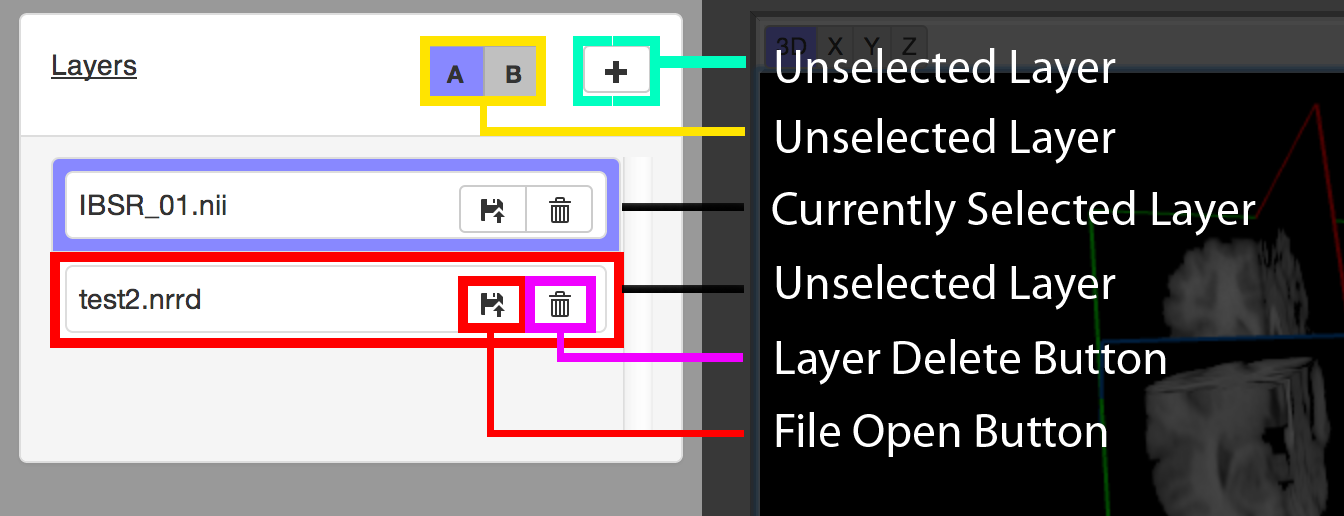
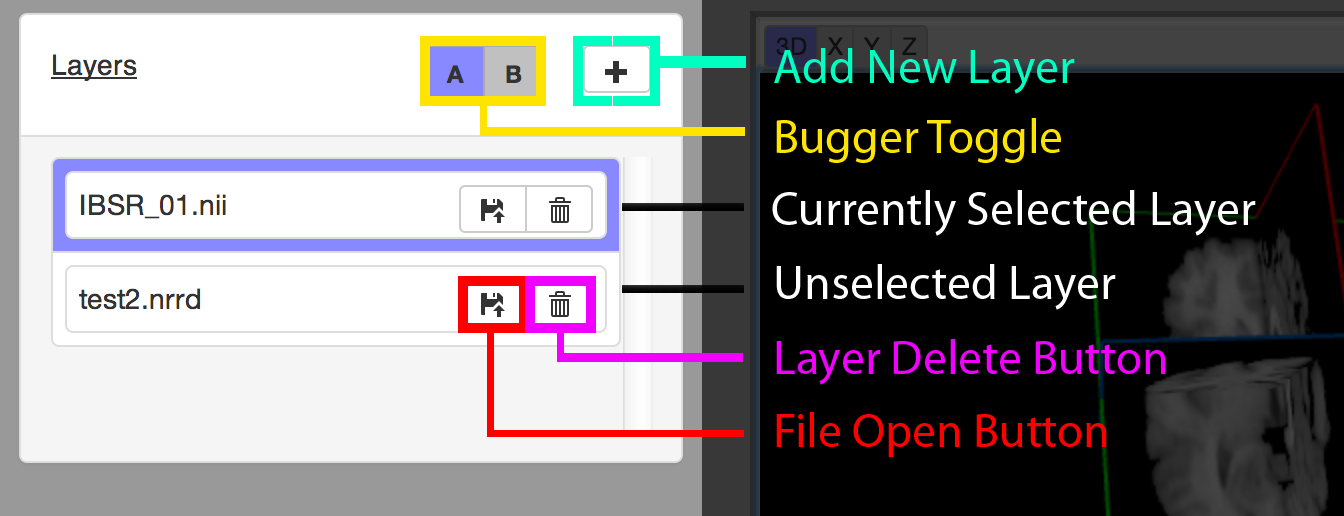
report milestone - 30 pages!! and some Naming fixes on site

diff --git a/Code/templates/Labelmap.html b/Code/templates/Labelmap.html
@@ -113,7 +113,7 @@
       <p>
 	
 	<span class="subMenuHeader">
-	  Lookup
+	  Colortable
 	</span>
 	
 	

diff --git a/Code/templates/Levels.html b/Code/templates/Levels.html
@@ -158,7 +158,7 @@
       <p>
 
 	<span class="subMenuHeader">
-	  Lookup
+	  Colortable
 	</span>
 	
 	

diff --git a/Docs/Report/report_01.tex b/Docs/Report/report_01.tex
@@ -333,6 +333,8 @@ At the end of the project, the software has the following feature list.
 
 \subsection{Layout and Input Breakdowns}
 
+\subsubsection{Main Page Layout}
+
 The main view that the user first sees is split into a 4 different components. The Navigation Bar (in blue colour) contains the links to other sites such as Tutorials, Sample Data and the About webpage. It also contains the Layout Selector buttons where the user can chose a layout for the View Panels. The Display Layer Panel allows for managing of Display Layers, which are synonimous with loaded Volume files. Each Display can load a Volume File. The Levels panel contains various controls for affecting the currently selected Display Layer and its inherent Volume File. Finally the Viewer Panel contains the 4 different Camera View Panels that each Volume is display in. They are the perspective 3D View, and the orthogonal X, Y and Z views.
 
 \begin{figure}[ht!]
@@ -341,6 +343,8 @@ The main view that the user first sees is split into a 4 different components. T
 \caption{General Panel Breakdown}
 \label{fig:UIdesign1}
 \end{figure}
+
+\subsubsection{Camera View Panels}
 
 The Camera View Panels are the viewing windows for displaying the visual representation of the loaded Volume File. Internally they copy pixels from invisible XTK Render Panels. The View Panels hold a top bar with options to customise the viewer (e.g to specify which camera to look through). The View Panels also contain an HTML5 Canvas Element which does the drawing of the Volume File. The View Panels come in two types. The 3D View Panel displays the 3D volume with the 3 axial slices. There is an option to toggle Volume Rendering on, a feature of the XTK library. It uses WebGL and will only work on computers that support WebGL. The 2D View Panels render the orthographic (ie. axial, sagittal and coronal) views of the Volume File. They include an option to specify which way Swiping between Buffers takes place. Furthermore they have a toggle for Overlaying Information into the Viewer about current filename, orientation, index and opacity.
 
@@ -361,7 +365,10 @@ The Camera View Panels are the viewing windows for displaying the visual represe
 \end{subfigure}
 \end{figure}
 
+\subsubsection{Display Layer Panel}
+
 The Display Layer Panel allows the user to manage Display Layers by creating, deleting and modifying them. Each Display Layer can load a Volume File, which will be displayed in the View Panels. Multiple Layers can be created and will highlight blue when selected. Additionally there is a Buffer Toggle Button which allows to switch the viewer between Buffer A and Buffer B. Each Buffer can hold a different Display Layer. This becomes useful when adjusting the Opacity of a Display Layer and it will reveal the Display Layer in the B Buffer. When Buffer A and Buffer B hold the same Display Layer, dialling down the opacity will fade the View Panels to black. Also the Buffer Swipe feature (hold Ctrl and move mouse over a 2D View Panel) plays into this.
+
 In terms of mouse and keyboard input controls, the 3D Render Canvas supports the common operations of panning, zooming and rotating via mouse controls. Pressing 'F' on the keyboard will reset the camera to the initial setting. Pressing 'v' will toggle the Volume Rendering toggle. Likewise for the 2D Render Canvases, panning and zooming are supported, as well as 'traversing'. When the user clicks the left mouse button and floats the mouse across the slice rendering, the indices will update in the other viewers accordingly as to where the mouse pointer is in the selected View Panel. Also, pressing 'f' will reset the camera. Pressing 'o' will toggle the Overlay toggle.
 
 
@@ -372,12 +379,15 @@ In terms of mouse and keyboard input controls, the 3D Render Canvas supports the
 \label{fig:UIdesign1}
 \end{figure}
 
+\subsubsection{Levels Panel and Tab}
+
 The Levels Panel contains separate tabs that enable further customisation of the currently selected Display Layer. In the Levels tab, a number of convenient controls are provided. Firstly, the Index Controls provide feedback on which Slice Indices are currently set. These can also be altered via the number input. 
 
 Next, the Window Controls can be used to control the Brightness of the loaded Volume File. This attributes straight into windowLow and windowHigh attributes of an X.volume. Likewise, the Threshold Controls allow for a clipping of a Volume File and is also provided by default by the XTK library.
 
 The Opacity Controls allow the user to set the opacity of the currently loaded Display Layer. Depending on what is loaded in the other Buffer, this will either reveal the Volume File from other Display Layer or fade to black.
 
+Finally, the Colortable Controls allow for switching the Colortable to one of three options (None, IDs and Heatmap). This changes the color value lookup at render time, making the Volume File look different with each option. IDs is generally intended for use with Labelmaps, whereas Heatmap can be used for any Volume File.
 
 \begin{figure}[ht!]
 \centering
@@ -386,7 +396,9 @@ The Opacity Controls allow the user to set the opacity of the currently loaded D
 \label{fig:UIdesign1}
 \end{figure}
 
+\subsubsection{Annotations Tab}
 
+The Annotations Tab allows the user to create, load, customise and delete Annotation Layers. When the user hits 'New', a new Annotation Layer is created, based at the current Volume File indices position with a prespecified width, length and breadth. The user can then toggle the visibility, change the label and color. Clicking on the color button will open a Colopicker UI. Finally each Annotation Layer has a Delete Button. Multiple Annotation Layers can be created. The UI allows for loading (via 'Load') a JSON file which will remove all current Annotation Layers and create the Layers as specified in the JSON file. Clicking 'Import' will add Annotations from a JSON file to the current Annotations. Lastly, clicking the 'Save' Button downloads the current Annotations in JSON format to the users computer. This would otherwise cause a 'Save As'-style UI modal screen to pop up, but web browser do not supply this feature for security reasons.
 
 \begin{figure}[ht!]
 \centering
@@ -396,6 +408,17 @@ The Opacity Controls allow the user to set the opacity of the currently loaded D
 \end{figure}
 
 
+A visible Annotation is displayed as a rectangular volume in the View Panels, colored as per the color specified in the Annotation Layer, with the Annotation label being displayed above it in the 2D Panel Views. The corner points are selectable and manipulatable in the 2D Panel Views. Moving one point will move its neighbor points accordingly to keep the rectangular shape. There is a fixed limit to how small an annotation can be made. When a Annotation point is selected, it's according layer is highlighted blue in the Annotation Tab.
+
+\begin{figure}[ht!]
+\centering
+\includegraphics[width=170mm]{graphics/AnnotationFinal_01.png}
+\caption{Annotation in 3D and 2D View}
+\label{fig:UIdesign1}
+\end{figure}
+
+
+\subsubsection{Labelmaps}
 
 \begin{figure}[ht!]
 \centering
@@ -404,8 +427,9 @@ The Opacity Controls allow the user to set the opacity of the currently loaded D
 \label{fig:UIdesign1}
 \end{figure}
 
+Labelsmaps can be loaded via the Labelmap tab. The UI allows the user to load one labelmap. There is a Opacity Control for setting the Labelmaps opacity and a Colortable Selector provided. The Colortable Selector provides the same three options as for the Levels tab.
 
-\subsubsection{Labelmaps}
+
 
 
 \subsection{Development Strategy}
@@ -414,9 +438,7 @@ Generally program in modular fashion, tackle problems in a naive fashion first t
 
 \subsubsection{Meetings with Supervisor}
 
-- supervisor seen as client
-- meetings every 1 to 3 weeks
-- notes taken, feature requests taken on board
+Meetings with the Project Supervisor Ben Glocker were held every one to three weeks, based on availability. Written notes were kept as record. Generally we discussed my progress up to date, and which features I should focus on in future. The meetings provided valuable feedback and direction, since Dr. Glocker is an expert in the field of Medical Imaging, has written his own Medical Image Viewers and could provide relevant Software and Data samples. He was treated as the client for this project.
 
 \subsubsection{Coding Journal}
 
@@ -424,7 +446,7 @@ As the project grew more complex, I started writing a Coding Journal in which I 
 
 \subsubsection{StackOverflow}
 
-As I am sure is a regular occurence, checking StackOverflow for any problems proved invaluable. There are x posts on the topic of Backbone, JavaScript and Jquery, so it provided a vast resource for fixing problems. XTK is relatively small but still useful due to the occasional answer of the XTK authors themselves.
+As I am sure is a regular occurence, checking StackOverflow for any problems proved invaluable. At time of writing, there are 15,957 questions tagged with 'Backbone', 521,973 questions tagged with 'JQuery' and 681,696 questions tagged with 'JavaScript', so it provided a vast resource for fixing problems. Even for XTK there are 139 Questions tagged, which is relatively small given the other numbers but still useful due to the occasional answer of the XTK authors themselves. Three of the questions tagged with 'xtk' have been asked by me.
 
 
 
@@ -520,12 +542,7 @@ Having finished this feature so far, it occured to me that I could actually spee
 
 \subsubsection{Annotations}
 
-\begin{figure}[ht!]
-\centering
-\includegraphics[width=170mm]{graphics/AnnotationFinal_01.png}
-\caption{Annotation in 3D and 2D View}
-\label{fig:UIdesign1}
-\end{figure}
+
 
 The Annotations feature was addded in the last month and I was aware of time pressure. That is why initital design decisions had to be made to reduce wasted time later in the process. I decided on implementing rectangular annotations first, since that would make calculations easier to manage. Annotations would be JavaScript objects with core members that were predefined (labelName, color, 3DPoints), and secondary attributes that would have to be computed on the fly (such as 2D Points for displaying on screen). Specifically, an annotation would be defined by 8 points in 3D Space. However to render it in a 2D View, 2D points had to be generated in screen space. I had intended the 2D points to be selectable in the Canvas View, so these 2D points should also be objects with custom attributes.
 
@@ -540,6 +557,15 @@ The final Annotation class contained quite a few more helper functions to help w
 
 
 The next step was to chose a data format and design the workflow. Initial tests were done with XML but to be somewhat cumbersome since some parsing is required and in the program the XML structures would have to be converted to JavaScript objects. Therefore the much more intuitive JSON format was chosen, since this basically stores JavaScript objects in readable form, and can be loaded directly into the program without almost any conversion required. The JSON format was originally derived from JavaScript which explains its ease of use.
+
+\begin{figure}[ht!]
+\centering
+\includegraphics[width=80mm]{graphics/AnnoJSON_01.png}
+\caption{Sample Annotations JSON file}
+\label{fig:UIdesign1}
+\end{figure}
+
+
 
 Probably the most involved work was to figure out the conversion of 3D points to 2D screen space. The 2D points would be calculated by each XTK renderer separately, since the different views required different 2D screen space points. An array of the 2D points would be stored in the Annotation class. These points would then be updated whenever the position of the 3D points of the Annotation changed. The XTK renderer class has a function that translates 2D screen coordinates to 3D slice index coordinates which was a good starting point. I chose a simplified version of this function and implemented a conversion function, which appeared to work fine. However some bugs were noticeable where all 2D points of an Annotation would sometimes jump by a pixel even when they were not being manipulated. I attributed this to some floating point or rounding errors, but could not track down where the errors were happening. Finally I had to admit that my simplified conversion function was not accurate enough, and I set out to reverse engineer the 2D to 3D conversion from the XTK library. This involved some inverse matrix multiplication, and in the end worked perfectly. These changes had to be made in the XTK renderer class.
 
@@ -567,6 +593,13 @@ Adding Labelmaps proved to be relatively painless due to the time spent understa
 \caption{Brain Scan with overlaid Labelmap}
 \label{fig:UIdesign1}
 \end{figure}
+
+
+\subsubsection{Error Handling}
+An issue that is entirely related to the XTK library is how to let the user know that a certain file has not loaded. This was an important issue since a large variety of files downloaded from the Internet could not be opened with the XTK library. Various errors would be thrown in the loader.js and parser.js components of the XTK library, but there is no simple way to propogate this to the higher API-using layer, since the file loading is handled asynchronously and with event sending. There are no events implemented that signal the failing to load a file (other than failing to download a file via HTTP). Due to limited time, rather than adding these events into the XTK library, I added an error listener to the UI Layer which would call an errorHandler function whenever an error was thrown. This errorHandler function would then do a string comparison and cause a pop-up modal window to appear to inform the user of the specific error. This had the benefit of being able to screen for only certains types of errors.
+
+
+
 
 
 
@@ -919,6 +952,7 @@ Analyse the usage reports from Google Analytics if appropriate.
 
 A frustrating side effect of the survey
 was not being able to get back individually and not being able to interface personally in order to fully interact and follow the users. However this is consequence of the limited time provided for the project, and it just took so long to get all the features implemented. In future, this time should be budgeted for in advance, so that a period of beta testing can happen on various platforms.
+However I managed to add some fixes to the few criticisms that I received. File loading error handling is much more robuts now, with enabled nii.gz support. Some spelling mistakes have also been fixed, as well as some name changes made in order to be less confusing.
 
 \subsubsection{Criticisms}
 
@@ -983,6 +1017,8 @@ In terms of creating a function piece of software, more time would have been ben
 
 
 \section{Future Work}
+
+A more complete rework of the library rather than half and half trying to use it as an API.
 
 \subsection{Limitations}
 
